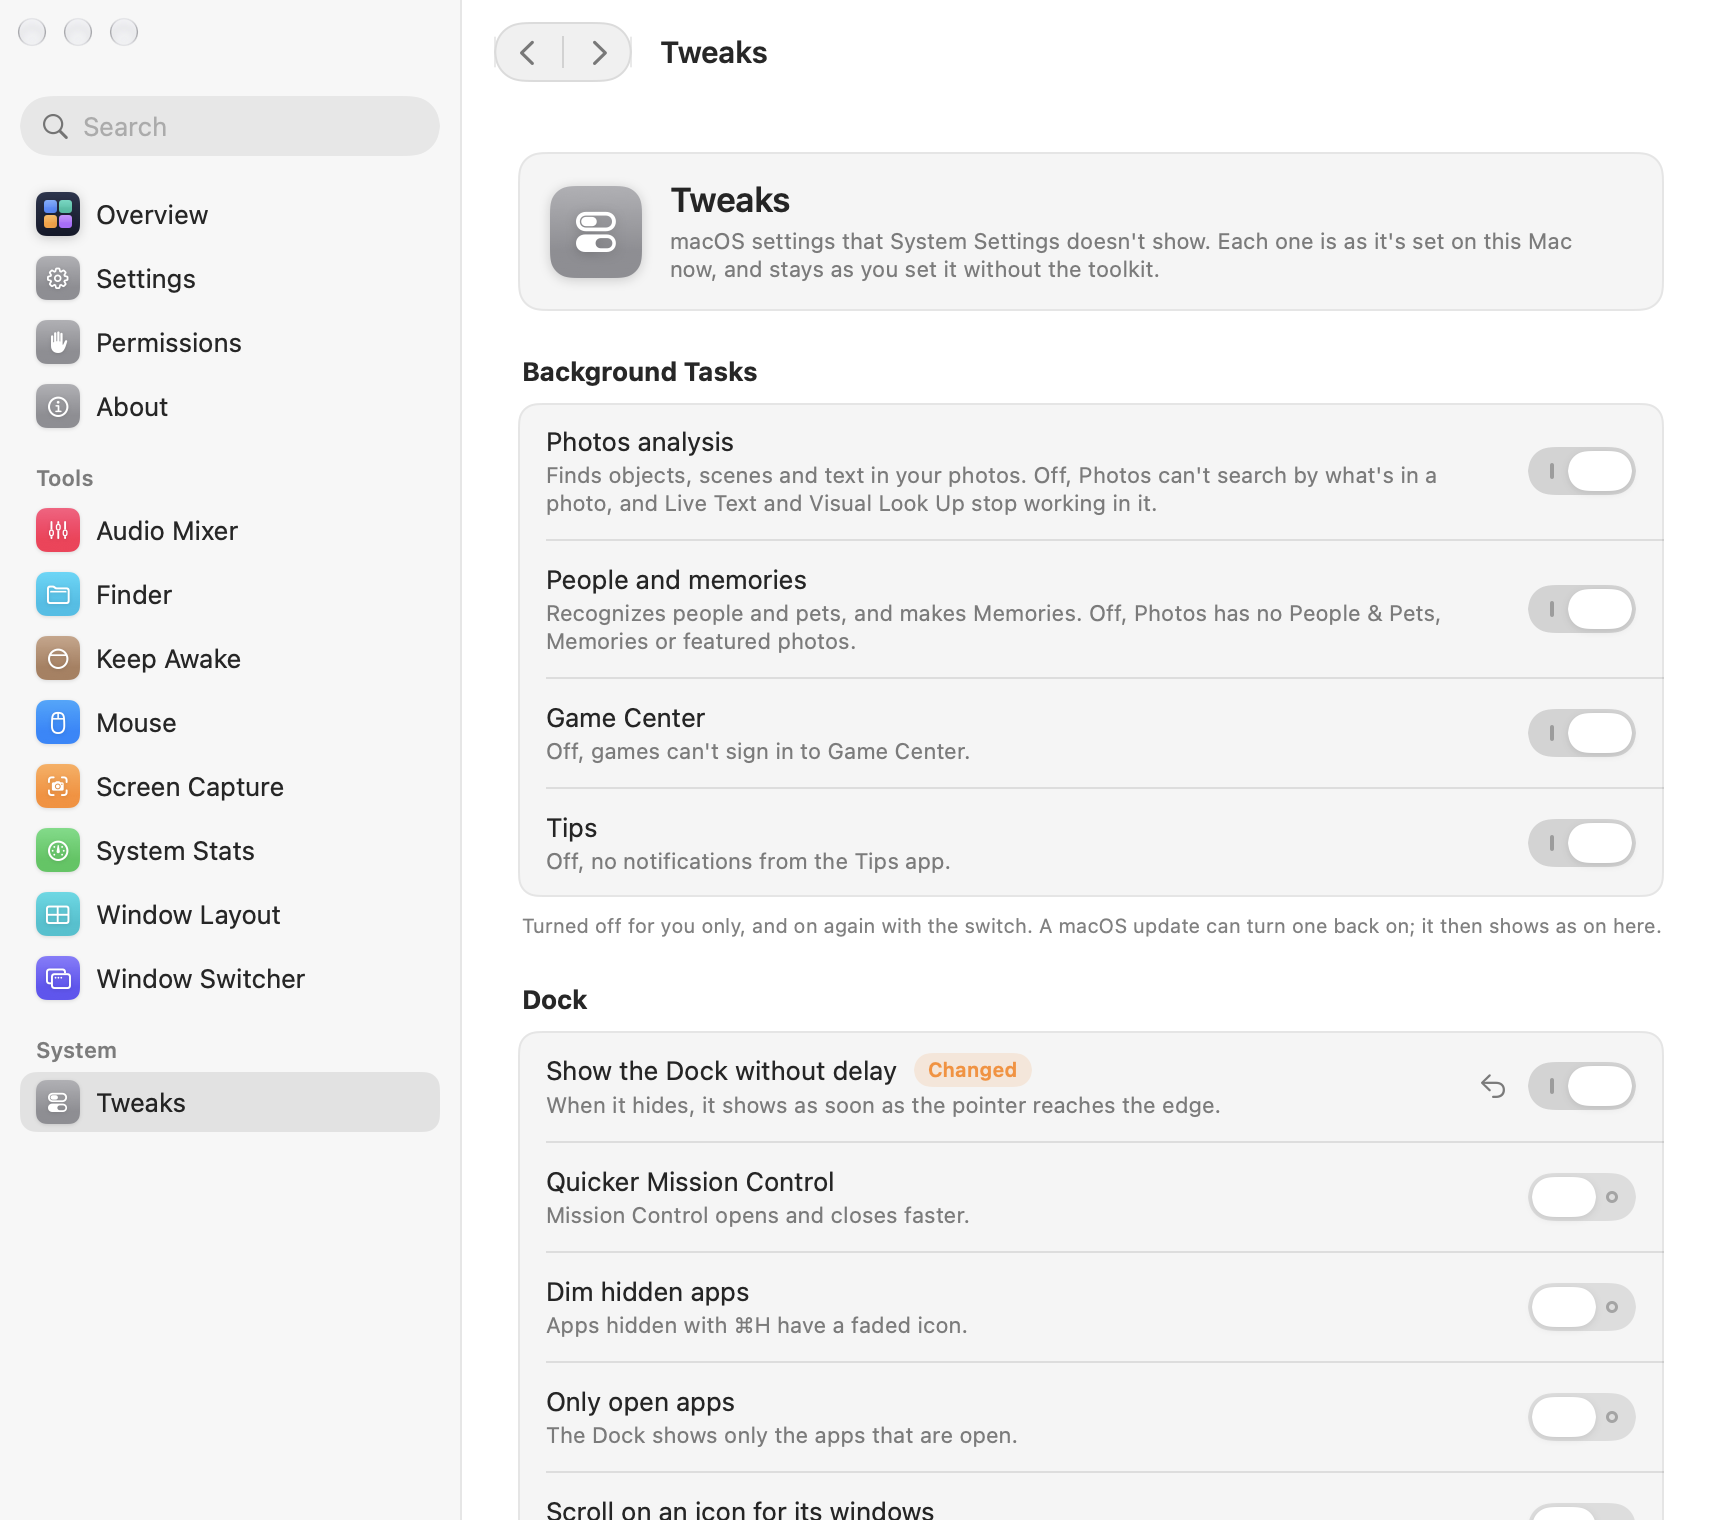
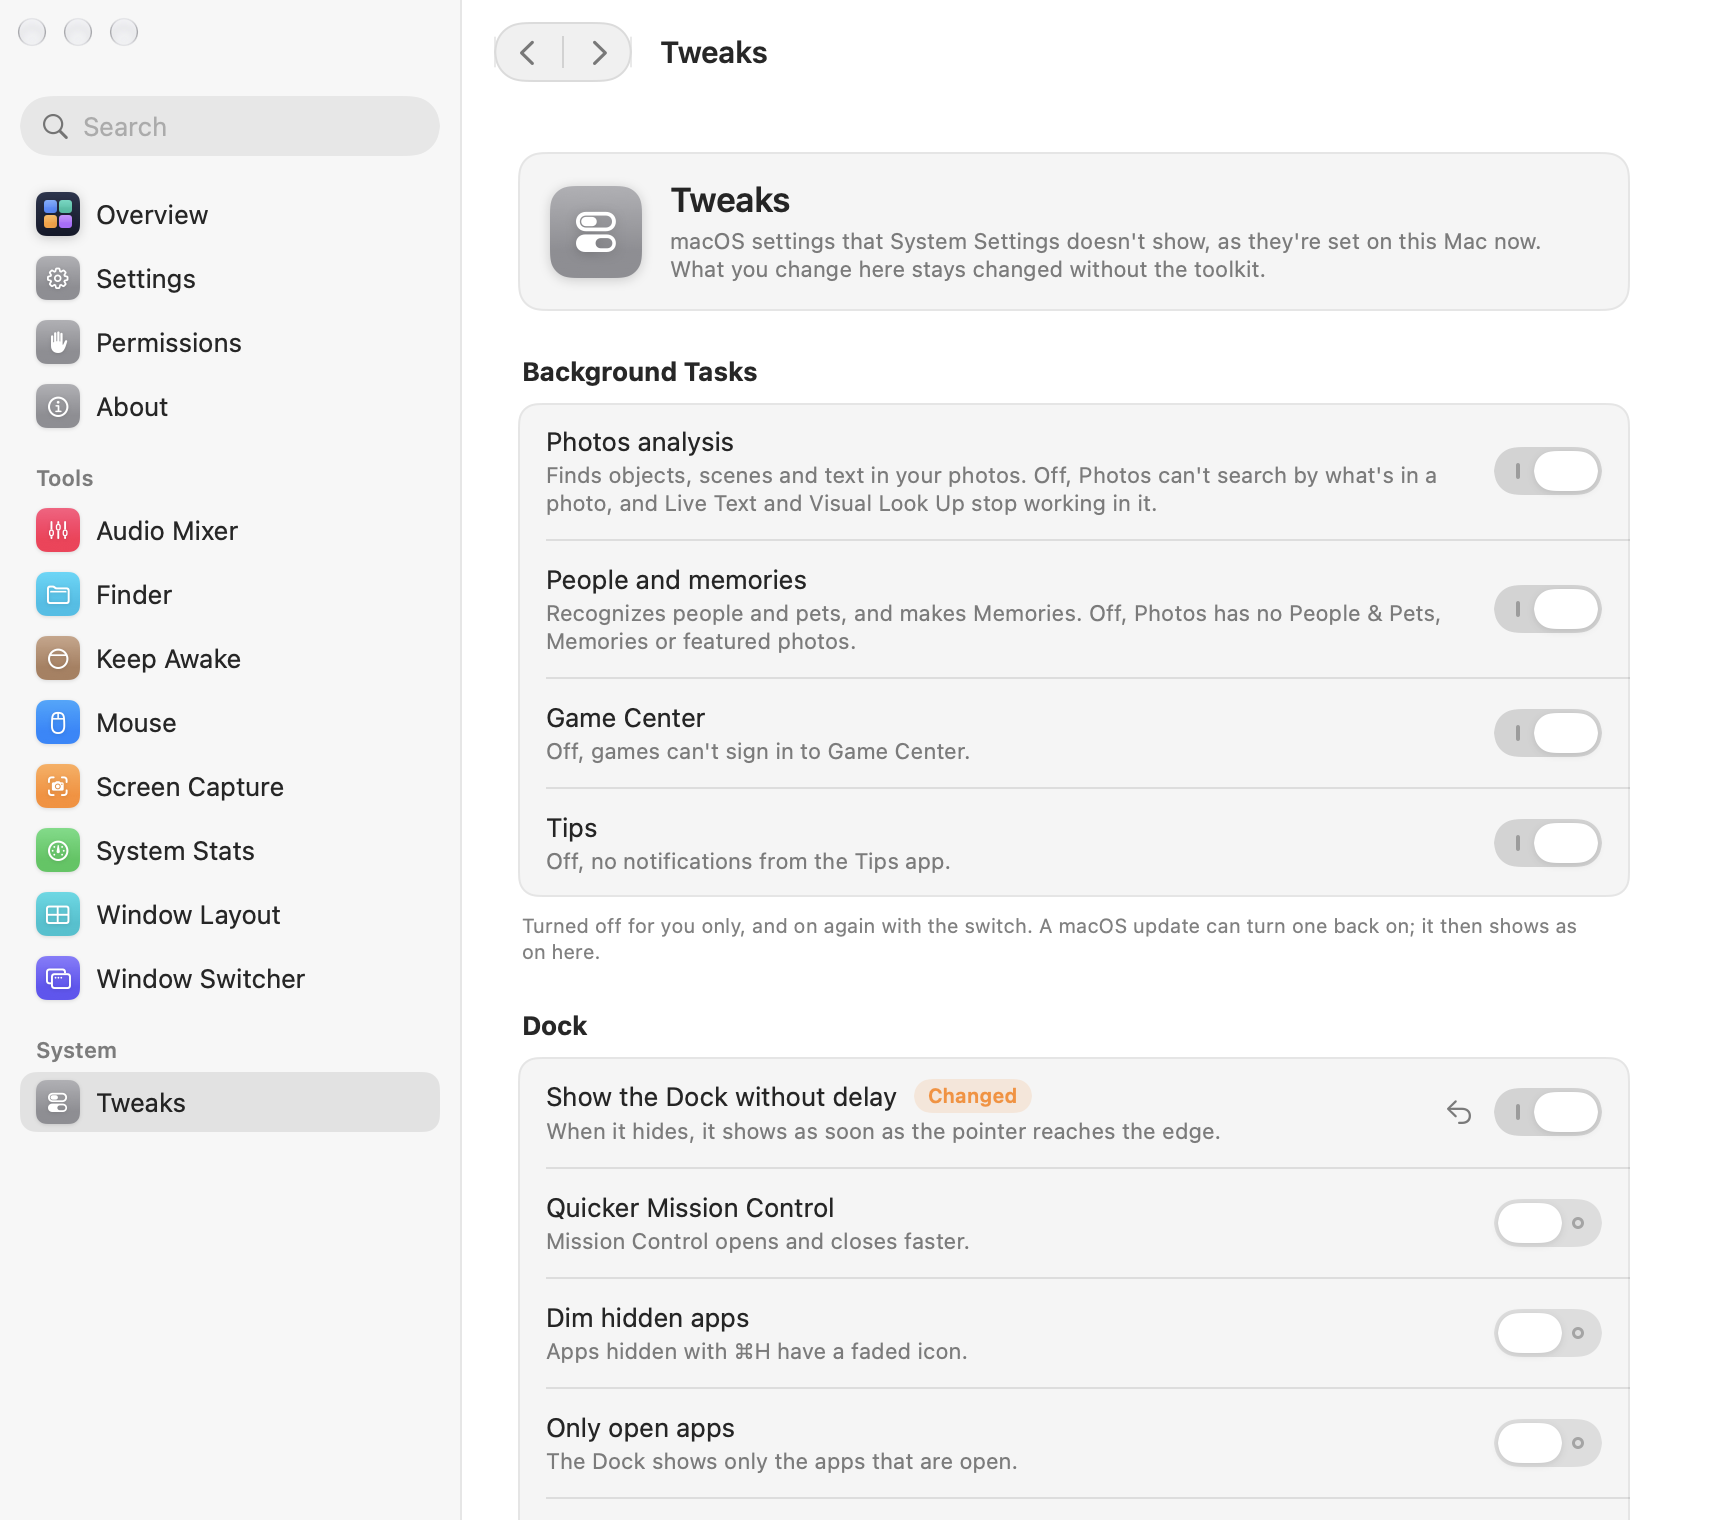
fix: tweaks restart finder only when asked, and keep switches steady
Quitting Finder stops a copy in progress, so a Finder tweak no longer
restarts it: the card offers a Restart Finder button instead. Dock
changes now restart it once, after the last of a few, as intended; a
read started before a change no longer puts its switch back for a
moment. Clearer header and footnote wording.

diff --git a/Sources/Toolkit/System/Tweaks.swift b/Sources/Toolkit/System/Tweaks.swift
@@ -34,7 +34,8 @@ enum Tweak: String, CaseIterable {
     }
 
     /// What has to start again for a change to show. macOS starts both again
-    /// by itself, and Finder reopens its windows.
+    /// by itself. The Dock is restarted at once; Finder only when asked, as
+    /// quitting it stops a copy in progress.
     enum Restart {
         case dock, finder
     }
@@ -120,13 +121,19 @@ final class TweaksModel: ObservableObject {
     @Published private(set) var isOn: [Tweak: Bool] = [:]
     /// The last change macOS didn't keep: the switch went back to what's set.
     @Published var refused: Tweak?
+    /// A Finder tweak changed since Finder last restarted from here: it shows
+    /// once Finder starts again, which the page offers rather than does.
+    @Published private(set) var finderWaiting = false
     /// For `--snapshot`: macOS's defaults with two changed, nothing read.
     static var previewing = false
     private let isPreview = TweaksModel.previewing
     private let queue = DispatchQueue(label: "dev.jalves.macos-toolkit.tweaks")
-    /// Apps waiting to restart, on `queue`: a few switches flipped in a row
-    /// restart the Dock or Finder once, after the last.
-    private var restarting: Set<Tweak.Restart> = []
+    /// On `queue`: the latest Dock change, so a few switches flipped in a row
+    /// restart it once, a moment after the last.
+    private var dockChange = 0
+    /// On the main thread: bumped by each change, so a read started before it
+    /// doesn't put the switch back for a moment.
+    private var generation = 0
     private var activation: NSObjectProtocol?
 
     init() {
@@ -136,7 +143,7 @@ final class TweaksModel: ObservableObject {
             isOn[.pathInTitle] = true
             return
         }
-        // Read here, about 8 ms, so the page's first frame shows the Mac's
+        // Read here, about 5 ms, so the page's first frame shows the Mac's
         // values rather than macOS's defaults turning into them.
         isOn = Self.read()
         // Back from System Settings or Terminal, it shows what's set now.
@@ -153,12 +160,15 @@ final class TweaksModel: ObservableObject {
 
     func changed(_ tweak: Tweak) -> Bool { on(tweak) != tweak.macOSDefault }
 
-    /// Reads every tweak off the main thread: `launchctl` takes a moment.
+    /// Reads every tweak again, after any change still being written.
     func refresh() {
         guard !isPreview else { return }
+        let started = generation
         queue.async {
             let states = Self.read()
-            DispatchQueue.main.async { self.isOn = states }
+            DispatchQueue.main.async {
+                if self.generation == started { self.isOn = states }
+            }
         }
     }
 
@@ -168,20 +178,31 @@ final class TweaksModel: ObservableObject {
         // whether macOS kept it.
         isOn[tweak] = value
         refused = nil
+        generation += 1
+        let started = generation
+        if tweak.restart == .finder { finderWaiting = true }
         queue.async {
             Self.write(tweak, value)
-            if let app = tweak.restart, self.restarting.insert(app).inserted {
+            if tweak.restart == .dock {
+                self.dockChange += 1
+                let change = self.dockChange
                 self.queue.asyncAfter(deadline: .now() + 0.6) {
-                    self.restarting.remove(app)
-                    Self.run("/usr/bin/killall", [app == .dock ? "Dock" : "Finder"])
+                    if self.dockChange == change { Self.run("/usr/bin/killall", ["Dock"]) }
                 }
             }
             let states = Self.read()
             DispatchQueue.main.async {
+                guard self.generation == started else { return }
                 self.isOn = states
                 if states[tweak] != value { self.refused = tweak }
             }
         }
+    }
+
+    func restartFinder() {
+        finderWaiting = false
+        guard !isPreview else { return }
+        queue.async { Self.run("/usr/bin/killall", ["Finder"]) }
     }
 
     // MARK: - macOS

diff --git a/Sources/Toolkit/System/TweaksView.swift b/Sources/Toolkit/System/TweaksView.swift
@@ -8,7 +8,7 @@ struct TweaksView: View {
 
     var body: some View {
         Page {
-            PageHeader(section: .tweaks, subtitle: "macOS settings that System Settings doesn't show. Each one is as it's set on this Mac now, and stays as you set it without the toolkit.")
+            PageHeader(section: .tweaks, subtitle: "macOS settings that System Settings doesn't show, as they're set on this Mac now. What you change here stays changed without the toolkit.")
 
             if tweaks.refused != nil {
                 Banner(text: "macOS kept that setting as it was.", button: "OK") { tweaks.refused = nil }
@@ -43,7 +43,11 @@ struct TweaksView: View {
                          tweak: .scrollForWindows, tweaks: tweaks)
             }
 
-            Card(title: "Finder", footnote: "A change restarts Finder, which opens its windows again. What the toolkit adds to Finder is on the [Finder page](toolkit-page:finder).") {
+            Card(title: "Finder", footnote: "Finder shows a change once it restarts. What the toolkit adds to Finder is on the [Finder page](toolkit-page:finder).") {
+                if tweaks.finderWaiting {
+                    FinderRestart(tweaks: tweaks)
+                    RowDivider()
+                }
                 TweakRow(title: "Full path in window titles", caption: "A window's title shows where the folder is, from the top of the disk.",
                          tweak: .pathInTitle, tweaks: tweaks)
                 RowDivider()
@@ -66,7 +70,7 @@ struct TweaksView: View {
                          tweak: .pressAndHold, tweaks: tweaks)
             }
 
-            Card(title: "Windows and Dialogs", footnote: "Apps pick a change up the next time they open.") {
+            Card(title: "Windows and Dialogs", footnote: "Apps pick a change up the next time they open; crash reports, at the next crash.") {
                 TweakRow(title: "Expand Save and Print dialogs", caption: "They open with every option showing.", tweak: .expandedDialogs, tweaks: tweaks)
                 RowDivider()
                 TweakRow(title: "Save new documents to iCloud", caption: "Off, a new document is saved on this Mac unless you pick iCloud.",
@@ -86,6 +90,27 @@ struct TweaksView: View {
                          tweak: .offerTimeMachine, tweaks: tweaks)
             }
         }
+    }
+}
+
+/// After a Finder tweak changes: a way to restart Finder now, when nothing
+/// is being copied. Not a setting, so not a row search finds.
+private struct FinderRestart: View {
+    @ObservedObject var tweaks: TweaksModel
+
+    var body: some View {
+        HStack(spacing: 16) {
+            VStack(alignment: .leading, spacing: 2) {
+                Text("Finder restarts to show the change")
+                Text("It opens its windows again, but a copy in progress stops.")
+                    .font(.subheadline)
+                    .foregroundStyle(.secondary)
+            }
+            .frame(maxWidth: .infinity, alignment: .leading)
+            Button("Restart Finder") { tweaks.restartFinder() }
+        }
+        .padding(.horizontal, 14)
+        .padding(.vertical, 11)
     }
 }
 

diff --git a/Sources/Toolkit/App/SettingsIndex.swift b/Sources/Toolkit/App/SettingsIndex.swift
@@ -157,7 +157,7 @@ extension SettingsIndex {
         SettingsEntry(.tweaks, "Dim hidden apps", name: "Dim hidden apps in the Dock", caption: "Apps hidden with ⌘H have a faded icon."),
         SettingsEntry(.tweaks, "Only open apps", name: "Only open apps in the Dock", caption: "The Dock shows only the apps that are open."),
         SettingsEntry(.tweaks, "Scroll on an icon for its windows", name: "Scroll on a Dock icon for its windows", caption: "Scrolling up on an app's icon shows its windows."),
-        SettingsEntry(.tweaks, "Finder", name: "Finder's own settings", caption: "A change restarts Finder, which opens its windows again. What the toolkit adds to Finder is on the [Finder page](toolkit-page:finder)."),
+        SettingsEntry(.tweaks, "Finder", name: "Finder's own settings", caption: "Finder shows a change once it restarts. What the toolkit adds to Finder is on the [Finder page](toolkit-page:finder)."),
         SettingsEntry(.tweaks, "Full path in window titles", caption: "A window's title shows where the folder is, from the top of the disk."),
         SettingsEntry(.tweaks, "Show hidden files", caption: "Files whose names start with a dot show, dimmed. ⇧⌘. shows them for a moment."),
         SettingsEntry(.tweaks, "Warn before changing an extension", caption: "Asks before a new extension changes the app that opens a file."),
@@ -166,7 +166,7 @@ extension SettingsIndex {
         SettingsEntry(.tweaks, "No .DS_Store on USB drives", caption: "Nor on disks connected by USB."),
         SettingsEntry(.tweaks, "Typing", name: "Typing settings", caption: "Apps pick a change up the next time they open."),
         SettingsEntry(.tweaks, "Hold a key for accents", caption: "Off, holding a key repeats it instead of showing its accented letters."),
-        SettingsEntry(.tweaks, "Windows and Dialogs", name: "Window and dialog settings", caption: "Apps pick a change up the next time they open."),
+        SettingsEntry(.tweaks, "Windows and Dialogs", name: "Window and dialog settings", caption: "Apps pick a change up the next time they open; crash reports, at the next crash."),
         SettingsEntry(.tweaks, "Expand Save and Print dialogs", caption: "They open with every option showing."),
         SettingsEntry(.tweaks, "Save new documents to iCloud", caption: "Off, a new document is saved on this Mac unless you pick iCloud."),
         SettingsEntry(.tweaks, "Window opening animations", caption: "New windows and sheets grow into place."),

diff --git a/Sources/Toolkit/UI/Components.swift b/Sources/Toolkit/UI/Components.swift
@@ -164,7 +164,8 @@ extension SettingRow where Extra == EmptyView {
     }
 }
 
-/// A small coloured word next to a title, for something not finished yet.
+/// A small coloured word next to a title: something not finished yet, or a
+/// setting not at its default.
 struct TagBadge: View {
     let text: LocalizedStringKey
 

diff --git a/README.md b/README.md
@@ -731,7 +731,7 @@ default says **Changed**, with a button to put it back.
 | --- | --- |
 | Background tasks | Photos' analysis of what's in photos, People and Memories, Game Center, Tips. Turned off for your user only (`launchctl disable`), each saying what stops working; a macOS update can turn one back on, and it then shows as on. |
 | Dock | Show it without delay, quicker Mission Control, dim hidden apps, only open apps, scroll on an icon for its windows. A change restarts the Dock. |
-| Finder | Full path in window titles, hidden files, the warning before changing an extension, Quit Finder, no `.DS_Store` on network or USB drives. A change restarts Finder. |
+| Finder | Full path in window titles, hidden files, the warning before changing an extension, Quit Finder, no `.DS_Store` on network or USB drives. Finder shows a change once it restarts, which the page offers to do rather than doing it, since it stops a copy in progress. |
 | Typing | Hold a key for accents, or to repeat it. |
 | Windows and dialogs | Expanded Save and Print dialogs, saving new documents to iCloud, window animations, the offer to report crashes. |
 | Devices | Photos opening for a new iPhone or camera, Time Machine offering new disks. |

diff --git a/AGENTS.md b/AGENTS.md
@@ -121,7 +121,8 @@ tool; keep it in step with the code.
   about something a tool also does stay in Tweaks, linked from the tool's page (Finder's), not
   mixed into it. The page reads every value as it's made (about 5 ms), so its first frame is the
   Mac's, not macOS's defaults turning into it; commands run through `posix_spawn`, since `Process`
-  took 75 ms for one `launchctl`. A few switches flipped in a row restart the Dock or Finder once.
+  took 75 ms for one `launchctl`. A few Dock switches flipped in a row restart it once, after the
+  last; Finder is restarted only from the button the page shows, since quitting it stops a copy.
   Never write one of macOS's settings to test: `--test-tweaks` reads them, times the read, and
   round-trips a scratch domain of our own.
 - **Import merges, setting by setting** (`SettingsTransfer.merge`): what a file lacks stays as it is
